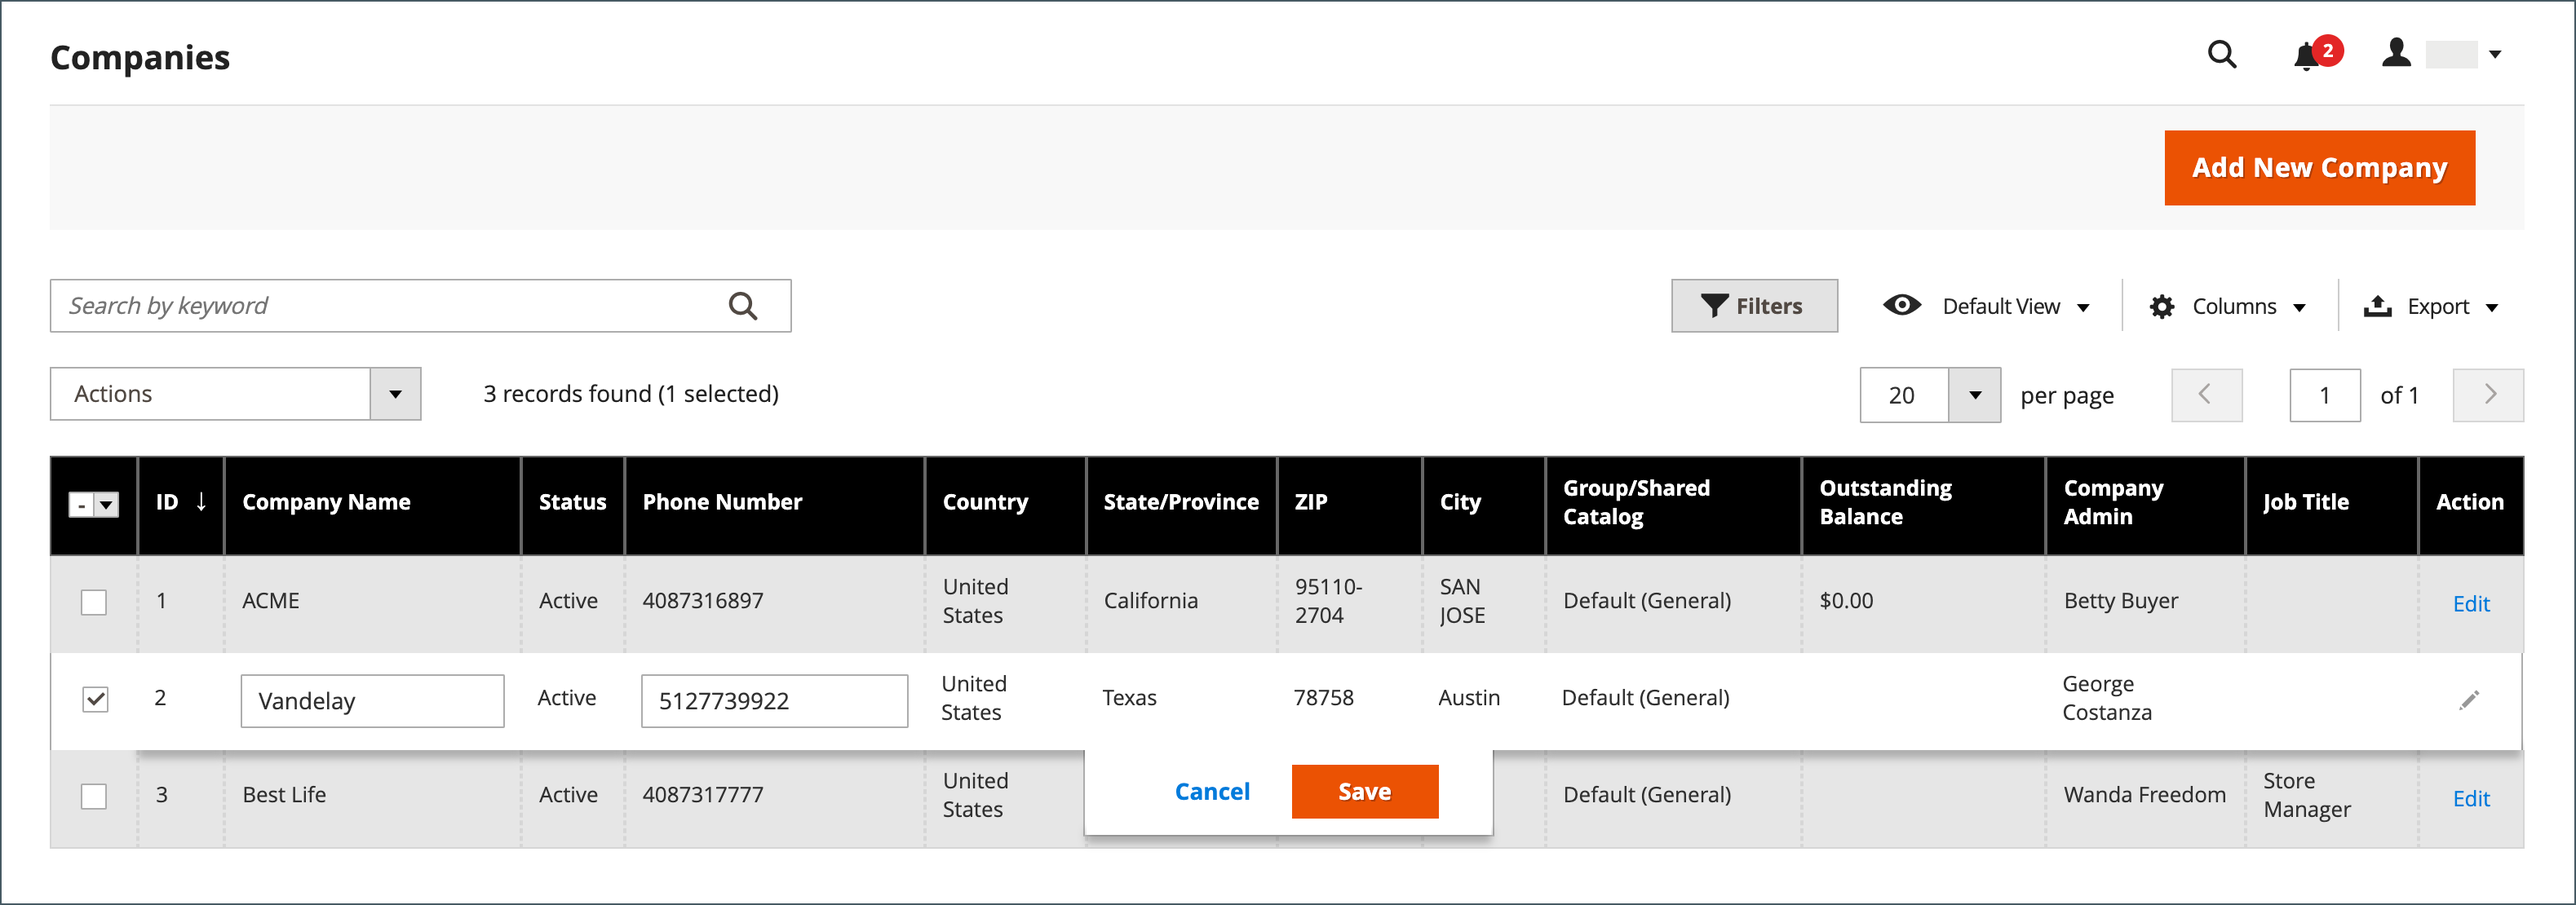
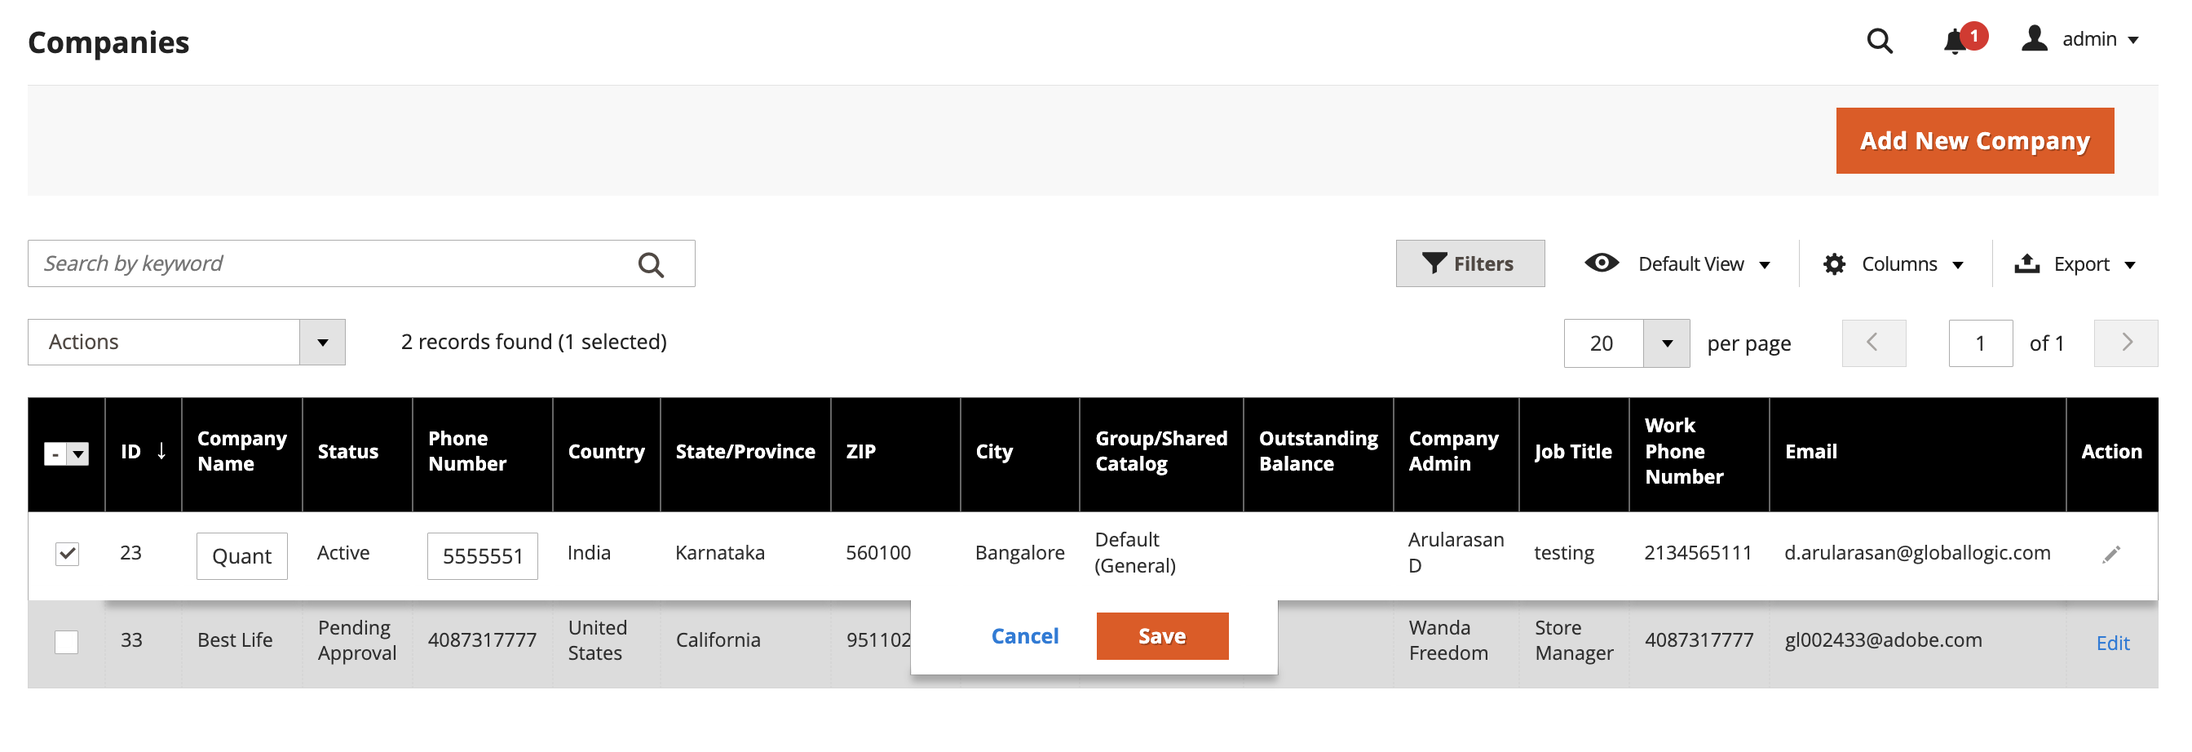
ACP2E-3436: Documentation update for ACP2E-3226  - The company admin's 'Work Phone Number' has been added to the account company management page.

diff --git a/help/b2b/account-company-manage.md b/help/b2b/account-company-manage.md
@@ -250,6 +250,7 @@ The following sections provide a reference for the available actions, options, a
 | [!UICONTROL Outstanding Balance]  | The outstanding balance on the company account. the column is blank if the company does not have a credit history, and its credit limit is zero.                                                                                                                                                                                                                                                                                                                         |
 | [!UICONTROL Company Admin]        | The first and last name of the company administrator.                                                                                                                                                                                                                                                                                                                                                                                                                    |
 | [!UICONTROL Job Title]            | The job title of the company administrator.                                                                                                                                                                                                                                                                                                                                                                                                                              |
+| [!UICONTROL Work Phone Number]    | The work phone number of the company administrator.                                                                                                                                                                                                                                                                                                                                                                                                                      |
 | [!UICONTROL Email]                | The email address of the company administrator.                                                                                                                                                                                                                                                                                                                                                                                                                          |
 | [!UICONTROL Action]               | **[!UICONTROL Edit]** - Opens the company account in edit mode.                                                                                                                                                                                                                                                                                                                                                                                                          |
 
@@ -340,18 +341,19 @@ The following columns are available by changing the [column layout](../getting-s
 
 #### [!UICONTROL Company Admin]
 
-| Field                            | Description                                                                                                                                                                                                                                      |
-|----------------------------------|--------------------------------------------------------------------------------------------------------------------------------------------------------------------------------------------------------------------------------------------------|
-| [!UICONTROL Website]           | Set the [website scope](../getting-started/websites-stores-views.md) for the company account. Defaults to the *[!UICONTROL Main Website]*.                                                                                                |
-| [!UICONTROL Job Title]           | The title of the company administrator who manages the company account.                                                                                                                                                                          |
-| [!UICONTROL Email]               | The email address of the company administrator can be the same as the company email address. If a different email address is entered, a separate individual account is created for the company administrator in addition to the company account. |
-| [!UICONTROL Prefix]              | If applicable, the prefix that is associated with the name of the company administrator (such as `Mr.`, `Ms.`, `Mrs.`, or `Dr.`). Depending on the configuration, the input field might be a text field or list.                                 |
-| [!UICONTROL First Name]          | The first name of the company administrator.                                                                                                                                                                                                     |
-| [!UICONTROL Middle Name/Initial] | The middle name or initial of the company administrator.                                                                                                                                                                                         |
-| [!UICONTROL Last Name]           | The last name of the company administrator.                                                                                                                                                                                                      |
-| [!UICONTROL Suffix]              | If applicable, the suffix that is associated with the name of the company administrator (such as `Jr.`, `Sr.`, or `III`). Depending on the configuration, the input field might be a text field or list.                                         |
-| [!UICONTROL Gender]              | The gender of the company administrator. Options: `Male` / `Female` / `Not Specified`                                                                                                                                                            |
-| [!UICONTROL Send Welcome Email From]              | Set the storeview to use when sending the welcome email to the new company administrator if you do not want to use the *[!UICONTROL Default Store View]*.                                                                                                                                                             |
+| Field                                | Description                                                                                                                                                                                                                                      |
+|--------------------------------------|--------------------------------------------------------------------------------------------------------------------------------------------------------------------------------------------------------------------------------------------------|
+| [!UICONTROL Website]                 | Set the [website scope](../getting-started/websites-stores-views.md) for the company account. Defaults to the *[!UICONTROL Main Website]*.                                                                                                       |
+| [!UICONTROL Job Title]               | The title of the company administrator who manages the company account.                                                                                                                                                                          |
+| [!UICONTROL Work Phone Number]       | The phone number of the company administrator who manages the company account.                                                                                                                                                                   |
+| [!UICONTROL Email]                   | The email address of the company administrator can be the same as the company email address. If a different email address is entered, a separate individual account is created for the company administrator in addition to the company account. |
+| [!UICONTROL Prefix]                  | If applicable, the prefix that is associated with the name of the company administrator (such as `Mr.`, `Ms.`, `Mrs.`, or `Dr.`). Depending on the configuration, the input field might be a text field or list.                                 |
+| [!UICONTROL First Name]              | The first name of the company administrator.                                                                                                                                                                                                     |
+| [!UICONTROL Middle Name/Initial]     | The middle name or initial of the company administrator.                                                                                                                                                                                         |
+| [!UICONTROL Last Name]               | The last name of the company administrator.                                                                                                                                                                                                      |
+| [!UICONTROL Suffix]                  | If applicable, the suffix that is associated with the name of the company administrator (such as `Jr.`, `Sr.`, or `III`). Depending on the configuration, the input field might be a text field or list.                                         |
+| [!UICONTROL Gender]                  | The gender of the company administrator. Options: `Male` / `Female` / `Not Specified`                                                                                                                                                            |
+| [!UICONTROL Send Welcome Email From] | Set the storeview to use when sending the welcome email to the new company administrator if you do not want to use the *[!UICONTROL Default Store View]*.                                                                                        |
 
 {style="table-layout:auto"}
 
